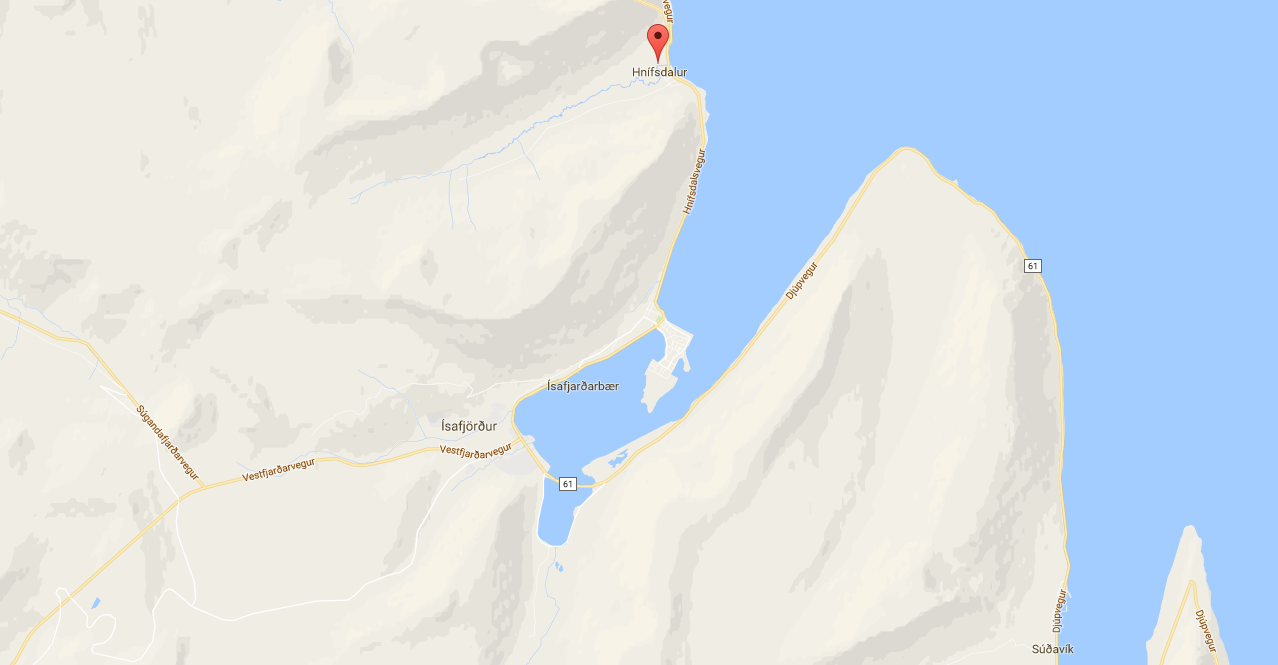
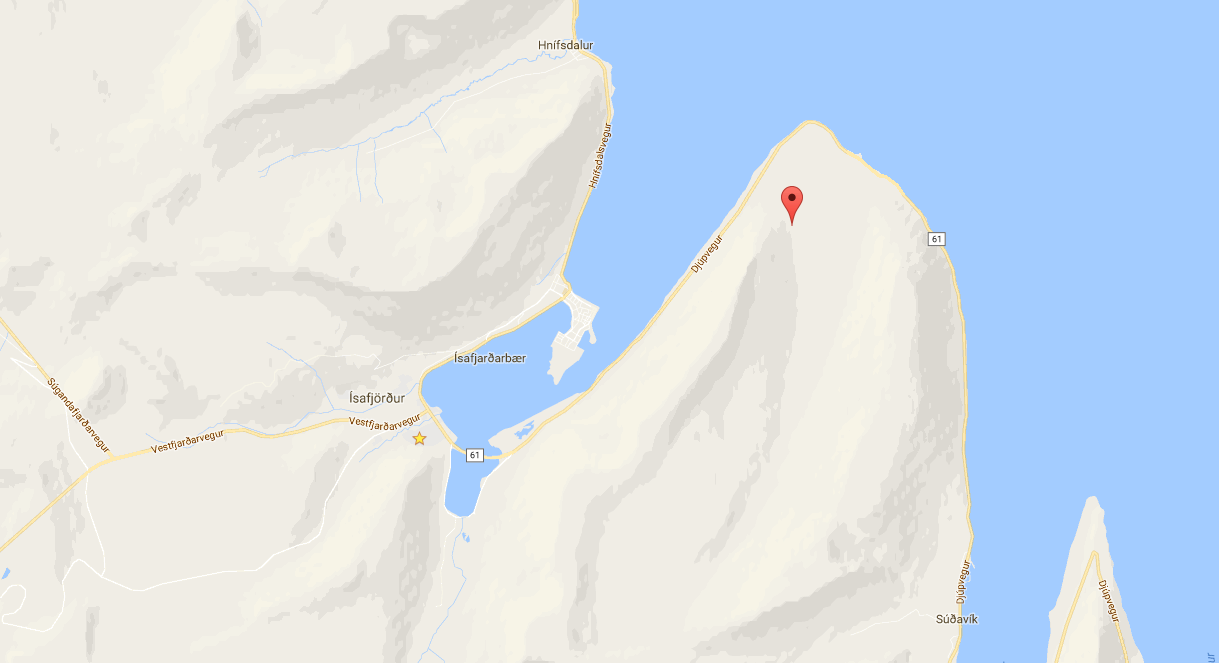
Updated background maps

diff --git a/us-travel.html b/us-travel.html
@@ -49,6 +49,6 @@ permalink: /us-travel/
 <section class="vspace60">
   <div class="google-maps">
     <div class="map-cover"></div>
-      <iframe src="https://www.google.com/maps/embed?pb=!1m18!1m12!1m3!1d1570567.9052544446!2d-78.6988596095835!3d39.750534206914615!2m3!1f0!2f0!3f0!3m2!1i1024!2i768!4f13.1!3m3!1m2!1s0x89c9f3e9c2ea5409%3A0xf4b03beeade3e365!2sThe+Historic+Springfield+Barn!5e0!3m2!1sen!2sus!4v1471572647769" width="600" height="450" frameborder="0" style="border:0" allowfullscreen></iframe>
+      <iframe width="600" height="450" frameborder="0" style="border:0" src="https://www.google.com/maps/embed/v1/place?q=place_id:Ei4xMiBTcHJpbmdmaWVsZCBMbiwgV2lsbGlhbXNwb3J0LCBNRCAyMTc5NSwgVVNB&zoom=12&key=AIzaSyCbM-aOQqixu-FzgRNF-SEqMc4a-P-oJJs" allowfullscreen></iframe>
   </div>
 </section>

diff --git a/is-travel.html b/is-travel.html
@@ -41,6 +41,7 @@ permalink: /is-travel/
 <section clas="vspace60">
   <div class="google-maps">
     <div class="map-cover"></div>
-      <iframe src="https://www.google.com/maps/embed?pb=!1m18!1m12!1m3!1d41594.9727233095!2d-23.157824821599927!3d66.09091900179583!2m3!1f0!2f0!3f0!3m2!1i1024!2i768!4f13.1!3m3!1m2!1s0x4f2b1e664fcabc2f%3A0x3ab32836ac36b99d!2sStrandgata%2C+Hn%C3%ADfsdalur%2C+Iceland!5e0!3m2!1sen!2sus!4v1471575326505" width="600" height="450" frameborder="0" style="border:0" allowfullscreen></iframe>
+
+    <iframe width="600" height="450" frameborder="0" style="border:0" src="https://www.google.com/maps/embed/v1/place?q=place_id:ChIJV-hm8wQfK08RNpfARz4cPsY&zoom=12&key=AIzaSyCbM-aOQqixu-FzgRNF-SEqMc4a-P-oJJs" allowfullscreen></iframe>
   </div>
 </section>
